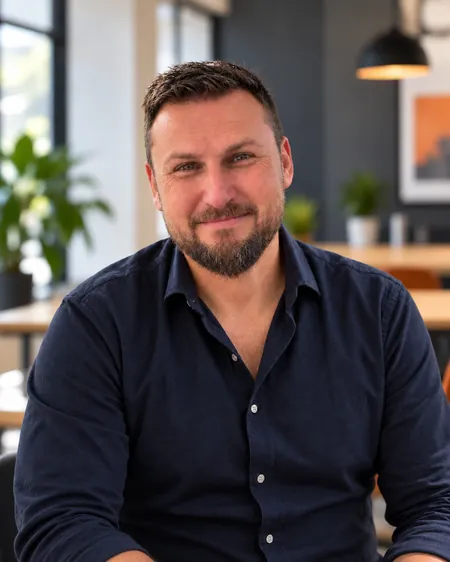
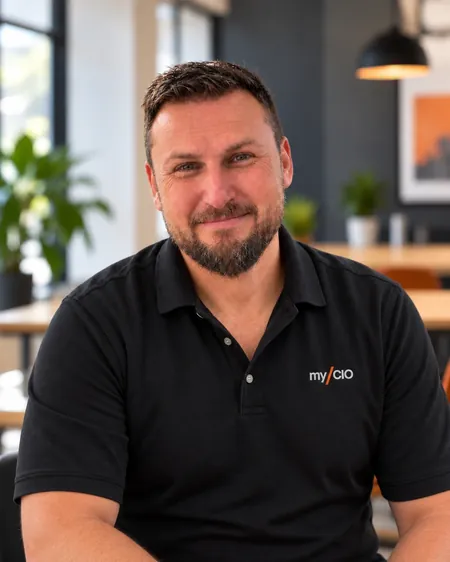
Swap in the branded-polo images and fix a missing boardroom size
Five scenes regenerated with both founders in the black my/CIO polo
replace the earlier versions in place: team-screen, site-visit,
client-conversation, and the two portraits. The Fractional CIO hero
referenced a 1536px boardroom variant that was never generated; added.
Brand guide wardrobe and character blocks updated to the black polo.

Claude-Session: https://claude.ai/code/session_01VG8FBMbGTFUxfj8k3JoHib

diff --git a/docs/brand-and-image-guide.md b/docs/brand-and-image-guide.md
@@ -49,7 +49,7 @@ Every generated image so far shares one recipe. Keep it.
 - **Setting:** a bright, modern New Zealand office. Timber desks, dark charcoal feature walls, black pendant lights, indoor plants, large windows with soft daylight. One orange accent somewhere in frame: a cushion, a notebook spine, a chair, a print on the wall. Never a logo on the wall except the dedicated brand-wall shot.
 - **Light:** natural, soft, slightly warm. No studio flash, no dramatic rim light, no blue-tinted "tech" lighting.
 - **Camera:** 35 mm or 50 mm look, shallow depth of field, eye-level, candid. Subjects mid-conversation, not posed at the camera, except the two portraits.
-- **Wardrobe:** Elton in a charcoal short-sleeved polo. Michael in a navy long-sleeved button shirt, sleeves rolled, open collar. Dark jeans. No lanyards, no logos except the small myCIO mark on Elton's polo when wanted.
+- **Wardrobe:** both in the black myCIO polo, with the small my/CIO mark (white letters, orange slash) on the left chest. Dark jeans. No lanyards, no other logos. The early set had Michael in a navy shirt; those are being regenerated and should not be used for new pages.
 - **Props:** laptops, paper notebooks, pens, mugs, paper on the table, sticky notes. No stock-photo props: no glowing holograms, no padlock icons, no circuit boards, no robots.
 - **Mood:** relaxed, senior, listening. These are the people you would want in the room when the board asks the hard question.
 - **Avoid:** suits and ties, handshakes, pointing at charts going up, anyone looking at the camera in a group shot, more than four people, generic "diverse team" compositions, text or UI on screens that has to be read.
@@ -58,9 +58,9 @@ Every generated image so far shares one recipe. Keep it.
 
 Paste these at the top of every prompt so the likeness holds.
 
-**Elton:** A New Zealand man in his mid-forties, broad build, closely cropped very short blond-grey hair, clean-shaven, warm open smile with slightly flushed cheeks, blue eyes. Wears a charcoal short-sleeved polo shirt and dark jeans. Expressive with his hands when talking.
+**Elton:** A New Zealand man in his mid-forties, broad build, closely cropped very short blond-grey hair, clean-shaven, warm open smile with slightly flushed cheeks, blue eyes. Wears a black short-sleeved polo shirt with a small white my/CIO wordmark and orange slash on the left chest, and dark jeans. Expressive with his hands when talking.
 
-**Michael:** A New Zealand man in his early forties, lean athletic build, short dark brown hair swept back, full short dark beard with some grey, blue-grey eyes, calm half-smile. Wears a navy long-sleeved linen button shirt with the sleeves rolled, open collar, and dark jeans. Often holding a pen and notebook.
+**Michael:** A New Zealand man in his early forties, lean athletic build, short dark brown hair swept back, full short dark beard with some grey, blue-grey eyes, calm half-smile. Wears a black short-sleeved polo shirt with a small white my/CIO wordmark and orange slash on the left chest, and dark jeans. Often holding a pen and notebook.
 
 ## Images in use
 
@@ -77,7 +77,9 @@ Paste these at the top of every prompt so the likeness holds.
 | founders-couch | Who we are hero, Contact | The tone of the first conversation |
 | elton, michael | Home people, Who we are, The case | Portraits |
 | brand-wall | Who we are | The wordmark |
-| elton-polo, michael-alt | Spare | Alternate portraits |
+| elton-polo, michael-alt | Spare | Alternate portraits from the first set |
+
+In the branded black polo already: team-screen, site-visit, client-conversation, elton, michael. Still in the first-set wardrobe (navy shirt on Michael) and due for regeneration: founders, boardroom, workshop, founders-laptop, client-review, founders-couch.
 
 Two things to do before launch:
 
@@ -98,9 +100,9 @@ Each prompt assumes the character blocks above are pasted first. Landscape shots
 
 **5. The walk to the car park.** Elton and Michael walking side by side out of a glass office entrance into daylight, mid-conversation, Michael with a notebook under his arm, Elton laughing. Shot from slightly ahead of them, wide, 3:2. Useful for the How we work page and for LinkedIn.
 
-**6. Portrait, Elton, real-world.** Head and shoulders, 4:5, in the office near a window, looking just off camera as if at someone talking, slight smile, charcoal polo with the small myCIO mark on the chest. Shallow depth of field.
+**6. Portrait, Elton, real-world.** Head and shoulders, 4:5, in the office near a window, looking just off camera as if at someone talking, slight smile, black polo with the small my/CIO mark on the chest. Shallow depth of field.
 
-**7. Portrait, Michael, real-world.** Head and shoulders, 4:5, same window, same framing, navy shirt, calm half-smile, looking just off camera.
+**7. Portrait, Michael, real-world.** Head and shoulders, 4:5, same window, same framing, black polo with the small my/CIO mark, calm half-smile, looking just off camera.
 
 **8. Social preview, people variant.** Landscape 16:9 (1672 by 941). Elton and Michael standing at the left third of a wide, otherwise empty, soft-grey office wall, a large window at the far right. Leaves the right two-thirds clear for text. Both at ease, hands in pockets, looking at camera. This matches the current hero crop and gives a second option.
 
